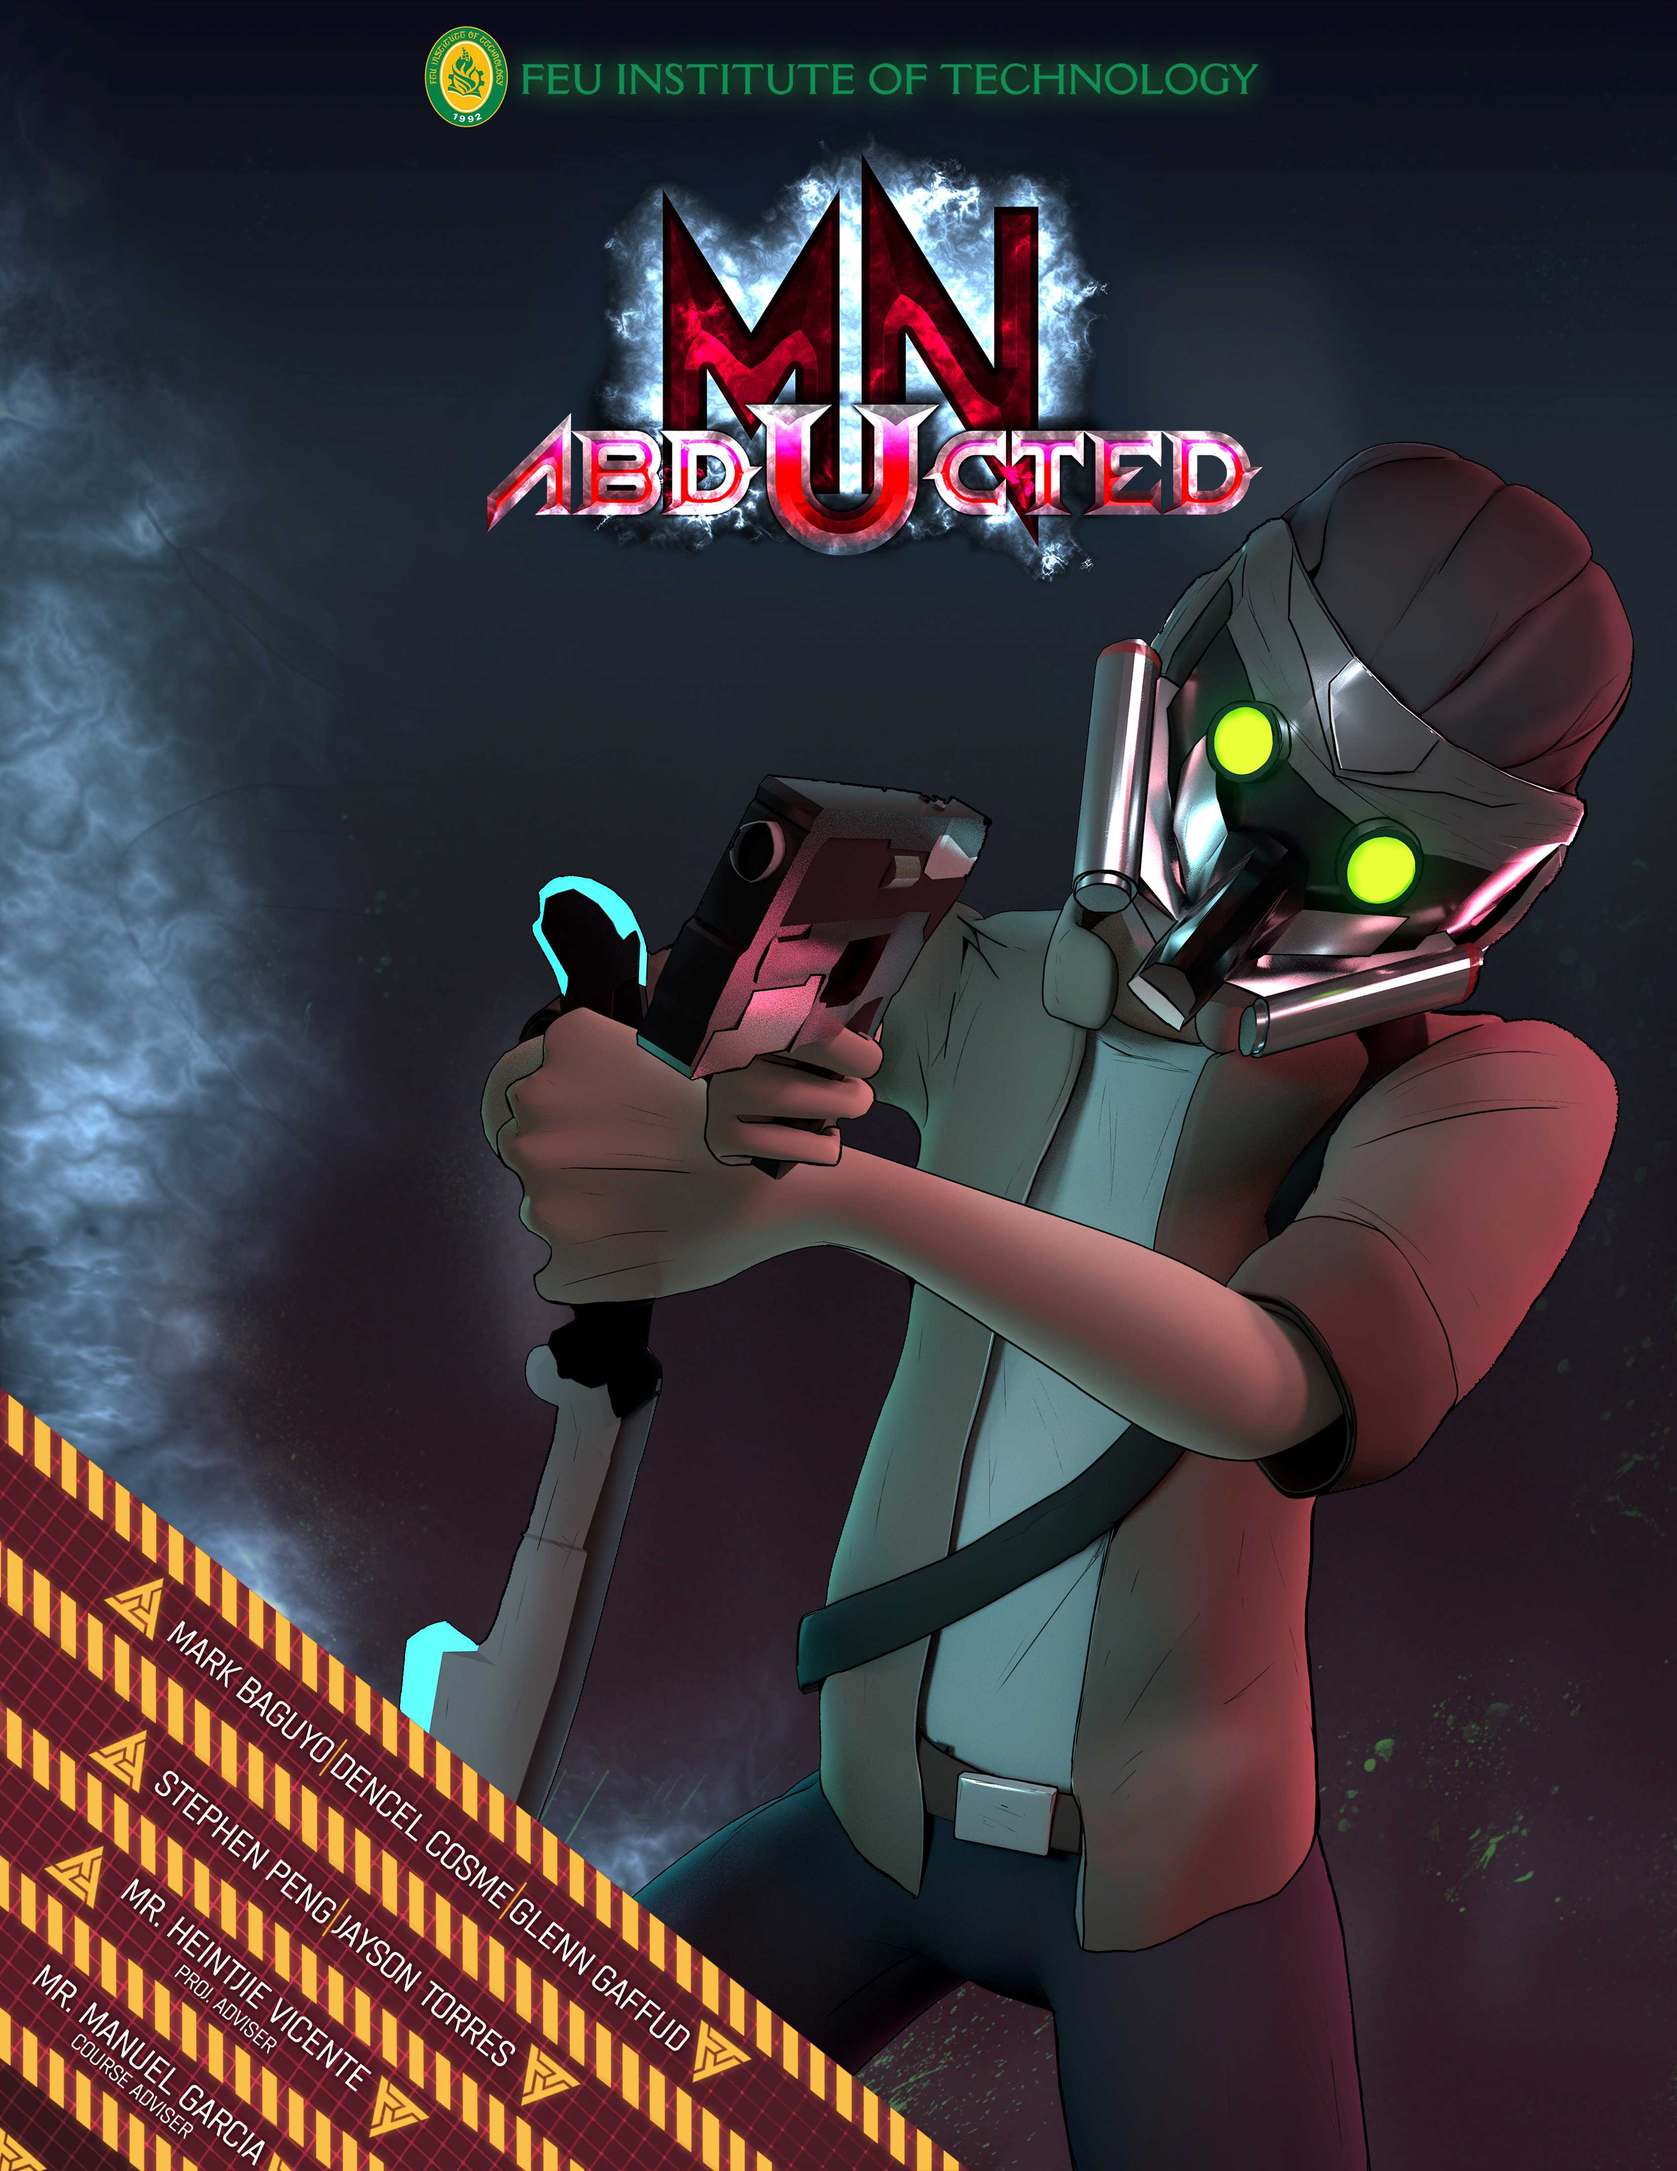
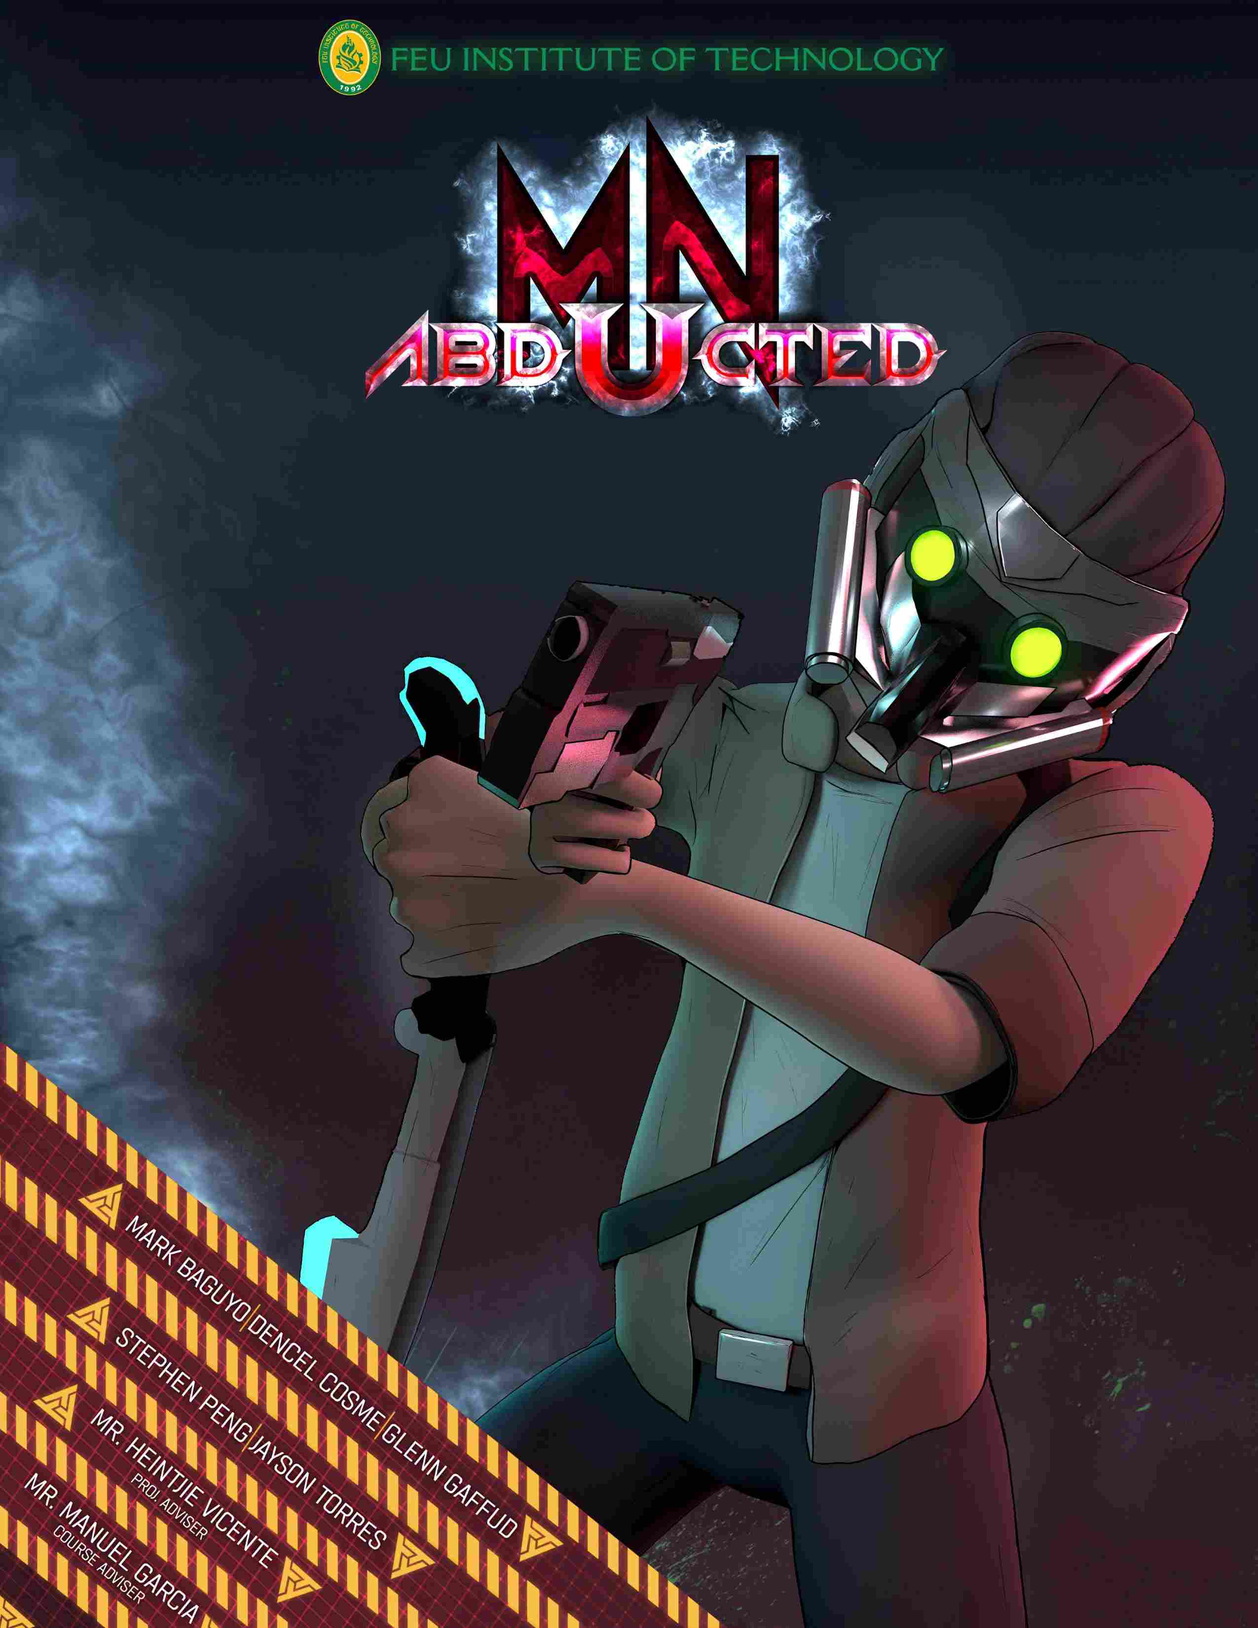
Image size reduced

diff --git a/src/types/projects.ts b/src/types/projects.ts
@@ -5,7 +5,7 @@ import Lvl2 from "../assets/images/projects-images/lvl3_env.jpg";
 import LinkLearn1 from "../assets/images/projects-images/linklearn_1.png";
 import LinkLearn2 from "../assets/images/projects-images/linklearn_2.png";
 import LinkLearn3 from "../assets/images/projects-images/linklearn_3.png";
-import Mind1 from "../assets/images/projects-images/mind_1.png";
+import Mind1 from "../assets/images/projects-images/mind_1.jpg";
 import Mind2 from "../assets/images/projects-images/mind_2.png";
 import Mind3 from "../assets/images/projects-images/mind_3.png";
 import Mind4 from "../assets/images/projects-images/mind_4.png";
